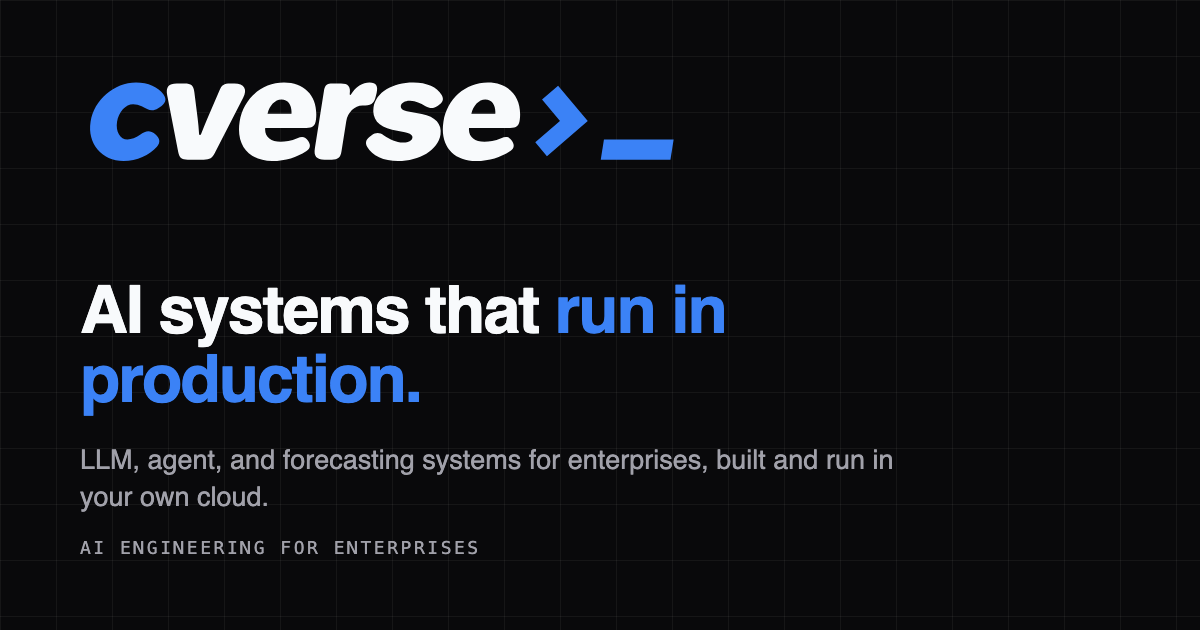
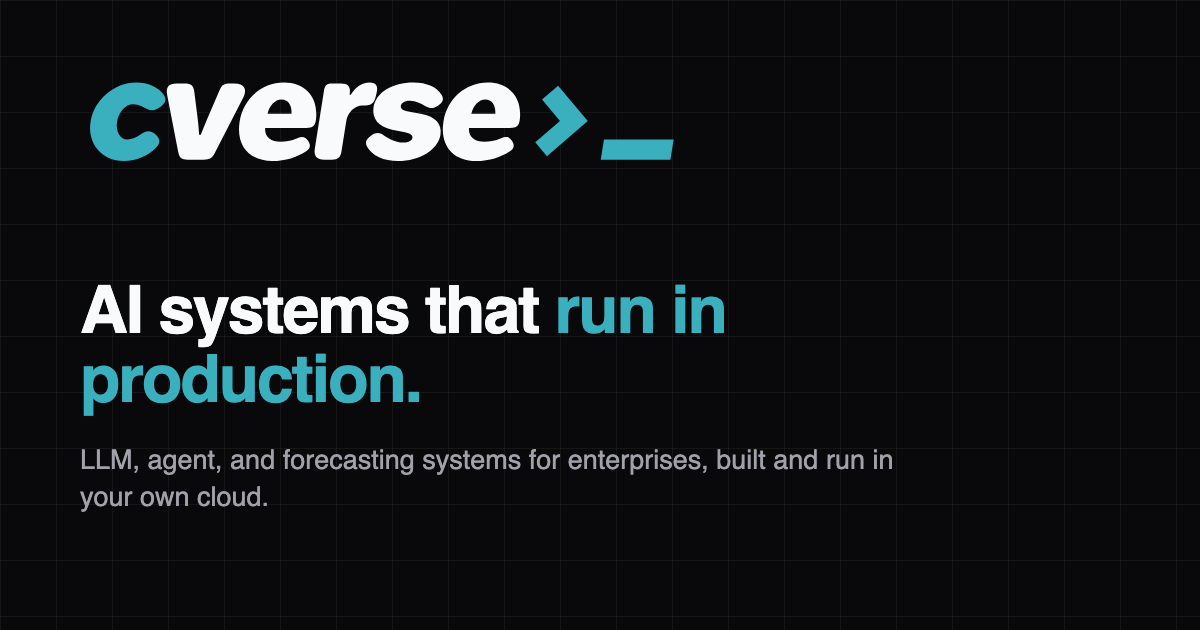
Switch the brand colour to petrol teal and drop the eyebrow labels
Petrol (#0F6E7A) replaces Route Blue in the theme tokens, the wordmark,
favicon and OG image. On the dark footer colour the mark uses a lighter
tint (#3AAFBD) through the --t-mark variable, since Petrol itself is only
3.4:1 on Obsidian.

The small uppercase eyebrow above the hero, each section title, contact,
legal, 404 and brand pages is removed, along with its data fields, props,
CSS and the OG image line.

diff --git a/src/styles/theme.css b/src/styles/theme.css
@@ -1,4 +1,4 @@
-/* Theme. Brand palette (Obsidian, Snow, Zinc, Slate, Route Blue, Signal Teal).
+/* Theme. Brand palette (Obsidian, Snow, Zinc, Slate, Petrol, Signal Teal).
    Headlines in Space Grotesk, body in Timeless Grotesk with Inter as fallback. */
 @import "@fontsource-variable/space-grotesk";
 @import "@fontsource-variable/inter";
@@ -14,7 +14,8 @@
   --snow: #F8FAFC;
   --zinc: #A1A1AA;
   --slate: #52525B;
-  --route-blue: #3B82F6;
+  --petrol: #0F6E7A;
+  --petrol-light: #3AAFBD; /* the mark on dark surfaces; Petrol itself is 3.4:1 on Obsidian */
   --signal-teal: #2DD4BF;
 
   --t-surface: var(--snow);
@@ -31,36 +32,36 @@
   --t-ink-400: var(--zinc);
   --t-ink-300: color-mix(in srgb, var(--obsidian) 24%, var(--snow));
 
-  /* One blue; lighter steps are tints of it on Snow */
-  --t-brand-50: color-mix(in srgb, var(--route-blue) 8%, var(--snow));
-  --t-brand-100: color-mix(in srgb, var(--route-blue) 14%, var(--snow));
-  --t-brand-200: color-mix(in srgb, var(--route-blue) 28%, var(--snow));
-  --t-brand-300: color-mix(in srgb, var(--route-blue) 50%, var(--snow));
-  --t-brand-400: color-mix(in srgb, var(--route-blue) 75%, var(--snow));
-  --t-brand-500: var(--route-blue);
-  --t-brand-600: var(--route-blue);
-  --t-brand-700: var(--route-blue);
-  --t-brand-800: var(--route-blue);
-  --t-brand-900: var(--route-blue);
+  /* One brand colour; lighter steps are tints of it on Snow */
+  --t-brand-50: color-mix(in srgb, var(--petrol) 8%, var(--snow));
+  --t-brand-100: color-mix(in srgb, var(--petrol) 14%, var(--snow));
+  --t-brand-200: color-mix(in srgb, var(--petrol) 28%, var(--snow));
+  --t-brand-300: color-mix(in srgb, var(--petrol) 50%, var(--snow));
+  --t-brand-400: color-mix(in srgb, var(--petrol) 75%, var(--snow));
+  --t-brand-500: var(--petrol);
+  --t-brand-600: var(--petrol);
+  --t-brand-700: var(--petrol);
+  --t-brand-800: var(--petrol);
+  --t-brand-900: var(--petrol);
   --t-on-brand: var(--snow);
-  --t-heading-accent: var(--route-blue);
+  --t-heading-accent: var(--petrol);
   --t-highlight: var(--signal-teal);
+  --t-mark: var(--petrol); /* fill of the c, chevron and cursor in the inline wordmark */
 
-  /* Small text never sits in Route Blue on Snow (3.7:1); these fall back to ink */
-  --t-eyebrow: var(--slate);
-  --t-icon-fg: var(--route-blue);
+  /* Petrol is 5.7:1 on Snow, so it could carry small text; links stay ink by choice */
+  --t-icon-fg: var(--petrol);
   --t-link: var(--obsidian);
-  --t-link-underline: var(--route-blue);
-  --t-link-hover: var(--route-blue);
+  --t-link-underline: var(--petrol);
+  --t-link-hover: var(--petrol);
 
-  /* Primary action is Obsidian; blue is reserved for the c, the cursor and accents */
+  /* Primary action is Obsidian; Petrol is reserved for the c, the chevron, the cursor and accents */
   --t-btn-bg: var(--obsidian);
   --t-btn-fg: var(--snow);
   --t-btn-hover: color-mix(in srgb, var(--obsidian) 84%, var(--snow));
 
   --t-code-bg: var(--obsidian);
   --t-code-fg: var(--snow);
-  --t-code-key: var(--route-blue);
+  --t-code-key: var(--petrol);
   --t-code-dim: var(--zinc);
 
   --t-footer-bg: var(--obsidian);

diff --git a/src/data/exec.ts b/src/data/exec.ts
@@ -28,7 +28,6 @@ export const execNav = [
 export const execCtaLabel = 'Book a scoping call';
 
 export const execHero = {
-  eyebrow: 'AI engineering for enterprises',
   titleLine1: 'AI systems that',
   titleLine2: 'run in production.',
   lead:
@@ -59,7 +58,6 @@ export type ExecIcon =
   | 'database';
 
 export const execServicesSection = {
-  eyebrow: 'Services',
   title: 'What we build',
   intro:
     'Each engagement is scoped to one business outcome and built in your environment. These are the four kinds of work we take on.',
@@ -101,7 +99,6 @@ export const execServices: { icon: ExecIcon; title: string; description: string;
 ];
 
 export const execStackSection = {
-  eyebrow: 'Stack',
   title: 'Tools we have used on recent work',
   intro:
     'We choose tools per engagement and run them in your environment. If your platform team has standardized on Bedrock, Azure OpenAI, or Vertex AI, we build inside that.',
@@ -116,7 +113,6 @@ export const execStack: { group: string; items: string[] }[] = [
 ];
 
 export const execHowSection = {
-  eyebrow: 'How we work',
   title: 'How an engagement runs',
   intro:
     'Four stages. You get a fixed scope and price at the end of discovery, before any build work starts.', // CONFIRM
@@ -154,7 +150,6 @@ export const execSteps: { icon: ExecIcon; step: string; title: string; descripti
 ];
 
 export const execDeliverablesSection = {
-  eyebrow: 'What you receive',
   title: 'What you receive at handover',
   intro:
     'Every build includes the following. They are listed here so you can check them against the proposal.',
@@ -199,7 +194,6 @@ export const execDeliverables: { icon: ExecIcon; title: string; description: str
 ];
 
 export const execFaqSection = {
-  eyebrow: 'FAQ',
   title: 'Questions buyers usually ask',
   intro: 'Short answers. The scoping call covers anything not here.',
 };
@@ -236,7 +230,6 @@ export const execFaq: { q: string; a: string }[] = [
 ];
 
 export const execAboutSection = {
-  eyebrow: 'About',
   title: 'About cverse',
   intro:
     'cverse (CVerse Ventures FZCO) is an AI engineering firm. We build and operate LLM, agent, and forecasting systems for enterprises, inside the client’s own infrastructure.',
@@ -258,7 +251,6 @@ export const execAboutPoints = [
 // SLOT: client outcomes. When publishable, add a short list (industry, problem, result) between FAQ and About.
 
 export const execContact = {
-  eyebrow: 'Contact',
   title: 'Tell us what you are trying to do.',
   body:
     'Two or three lines is enough. We reply within two working days with whether we can help and what a scoping call would cover.', // CONFIRM reply time

diff --git a/src/styles/global.css b/src/styles/global.css
@@ -102,23 +102,6 @@
 }
 
 @layer components {
-  .eyebrow {
-    display: inline-flex;
-    align-items: center;
-    gap: 0.5rem;
-    font-size: 0.75rem;
-    font-weight: 600;
-    letter-spacing: 0.12em;
-    text-transform: uppercase;
-    color: var(--t-eyebrow, var(--t-brand-700));
-  }
-  .eyebrow::before {
-    content: "";
-    width: 0.375rem;
-    height: 0.375rem;
-    border-radius: 9999px;
-    background: var(--t-brand-600);
-  }
   .section-title {
     font-size: clamp(1.875rem, 1.4rem + 1.6vw, 2.5rem);
     line-height: 1.12;
@@ -312,3 +295,6 @@
   .btn-secondary:hover { transform: translateY(-1px); }
   .card:hover { transform: translateY(-2px); }
 }
+
+/* The wordmark's Petrol parts switch to the lighter tint on the dark footer colour. */
+.bg-footer-bg { --t-mark: var(--petrol-light); }
